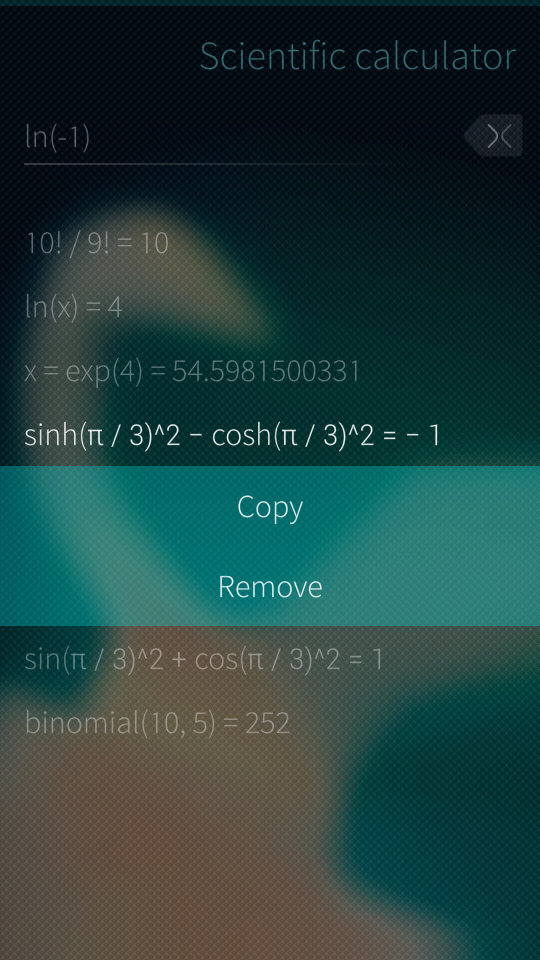
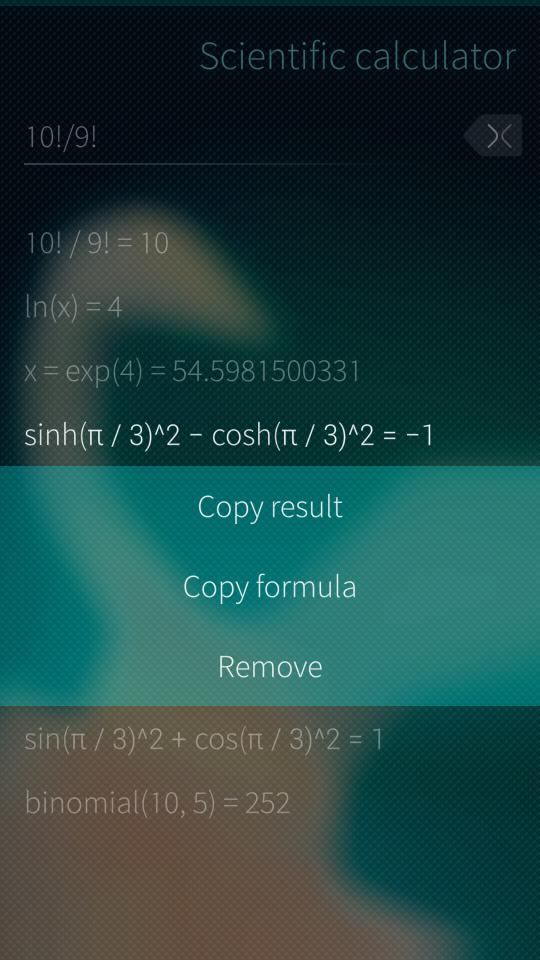
copy formula or result to clipboard

diff --git a/qml/pages/MainPage.qml b/qml/pages/MainPage.qml
@@ -90,7 +90,10 @@ Page {
           placeholderText: qsTr("Mathematical expression")
           inputMethodHints: Qt.ImhNoAutoUppercase | Qt.ImhNoPredictiveText
           EnterKey.enabled: text.length>0
-          EnterKey.onClicked: listModel.insert(0, { res: calculator.calculate(formula.text) } )
+          EnterKey.onClicked: {
+            var t=calculator.calculate(formula.text)
+            listModel.insert(0, { formula: t[0], result: t[1] } )
+          }
         }
         IconButton {
           id: clearButton
@@ -111,10 +114,10 @@ Page {
     delegate: ListItem {
       width: parent.width
       contentWidth: parent.width
-      contentHeight: result.height+Theme.paddingLarge
+      contentHeight: result_text.height+Theme.paddingLarge
       menu: contextMenu
       Text {
-        id: result
+        id: result_text
         x: Theme.horizontalPageMargin
         y: 0.5*Theme.paddingLarge
         width: parent.width-2*Theme.horizontalPageMargin
@@ -122,14 +125,18 @@ Page {
         wrapMode: TextEdit.Wrap
         font.pixelSize: Theme.fontSizeMedium
         horizontalAlignment: TextEdit.AlignLeft
-        text: res
+        text: formula+" = "+result
       }
       Component {
         id: contextMenu
         ContextMenu {
           MenuItem {
-            text: qsTr("Copy")
-            onClicked: Clipboard.text=listModel.get(model.index).res
+            text: qsTr("Copy result")
+            onClicked: Clipboard.text=listModel.get(model.index).result
+          }
+          MenuItem {
+            text: qsTr("Copy formula")
+            onClicked: Clipboard.text=listModel.get(model.index).formula
           }
           MenuItem {
             text: qsTr("Remove")

diff --git a/qml/components/FunctionDoc.qml b/qml/components/FunctionDoc.qml
@@ -1,32 +1,32 @@
-import QtQuick 2.0
+import QtQuick 2.2
 import Sailfish.Silica 1.0
 
 Item {
-    property string functionText: ""
-    property string descriptionText: ""
+  property string functionText: ""
+  property string descriptionText: ""
 
-    width: parent.width
-    height: label.height+description.height-Theme.paddingLarge
+  width: parent.width
+  height: label.height+description.height-Theme.paddingLarge
 
-    Label {
-        id: label
-        x: Theme.horizontalPageMargin
-        width: parent.width-Theme.horizontalPageMargin
-        text: functionText
-        color: Theme.secondaryHighlightColor
-        font.pixelSize: Theme.fontSizeMedium
-    }
-    TextArea {
-        id: description
-        anchors.top: label.bottom
-        anchors.right: label.right
-        width: parent.width-Theme.paddingLarge
-        color: Theme.primaryColor
-        readOnly: true
-        wrapMode: TextEdit.Wrap
-        font.pixelSize: Theme.fontSizeMedium
-        horizontalAlignment: TextEdit.AlignJustify
-        text: descriptionText
-    }
+  Label {
+    id: label
+    x: Theme.horizontalPageMargin
+    width: parent.width-Theme.horizontalPageMargin
+    text: functionText
+    color: Theme.secondaryHighlightColor
+    font.pixelSize: Theme.fontSizeMedium
+  }
+  TextArea {
+    id: description
+    anchors.top: label.bottom
+    anchors.right: label.right
+    width: parent.width-Theme.paddingLarge
+    color: Theme.primaryColor
+    readOnly: true
+    wrapMode: TextEdit.Wrap
+    font.pixelSize: Theme.fontSizeMedium
+    horizontalAlignment: TextEdit.AlignJustify
+    text: descriptionText
+  }
 }
 

diff --git a/translations/harbour-babbage.de.ts b/translations/harbour-babbage.de.ts
@@ -166,10 +166,6 @@
         <translation>Lösche Variablen</translation>
     </message>
     <message>
-        <source>Copy</source>
-        <translation>Kopiere</translation>
-    </message>
-    <message>
         <source>Scientific calculator</source>
         <translation>Wissenschaftlicher Rechner</translation>
     </message>
@@ -192,6 +188,14 @@
     <message>
         <source>Clearing variables</source>
         <translation>Lösche Variablen</translation>
+    </message>
+    <message>
+        <source>Copy result</source>
+        <translation>Kopiere Ergebnis</translation>
+    </message>
+    <message>
+        <source>Copy formula</source>
+        <translation>Kopiere Ausdruck</translation>
     </message>
 </context>
 </TS>

diff --git a/translations/harbour-babbage.en.ts b/translations/harbour-babbage.en.ts
@@ -166,10 +166,6 @@
         <translation>Clear variables</translation>
     </message>
     <message>
-        <source>Copy</source>
-        <translation>Copy</translation>
-    </message>
-    <message>
         <source>Scientific calculator</source>
         <translation>Scientific calculator</translation>
     </message>
@@ -192,6 +188,14 @@
     <message>
         <source>Clearing variables</source>
         <translation>Clearing variables</translation>
+    </message>
+    <message>
+        <source>Copy result</source>
+        <translation>Copy result</translation>
+    </message>
+    <message>
+        <source>Copy formula</source>
+        <translation>Copy formula</translation>
     </message>
 </context>
 </TS>

diff --git a/translations/harbour-babbage.ts b/translations/harbour-babbage.ts
@@ -166,10 +166,6 @@
         <translation>Clear variables</translation>
     </message>
     <message>
-        <source>Copy</source>
-        <translation>Copy</translation>
-    </message>
-    <message>
         <source>Scientific calculator</source>
         <translation>Scientific calculator</translation>
     </message>
@@ -192,6 +188,14 @@
     <message>
         <source>Clearing variables</source>
         <translation>Clearing variables</translation>
+    </message>
+    <message>
+        <source>Copy result</source>
+        <translation>Copy result</translation>
+    </message>
+    <message>
+        <source>Copy formula</source>
+        <translation>Copy formula</translation>
     </message>
 </context>
 </TS>

diff --git a/qml/cover/CoverPage.qml b/qml/cover/CoverPage.qml
@@ -55,7 +55,7 @@ CoverBackground {
     }
 
     Label {
-      text: listModel.count>0 ? listModel.get(0).res : ""
+      text: listModel.count>0 ? listModel.get(0).formula+" = "+listModel.get(0).result : ""
       font.pixelSize : Theme.fontSizeSmall
       color: Theme.secondaryColor
       width: parent.width

diff --git a/src/calculator.cpp b/src/calculator.cpp
@@ -3,12 +3,13 @@
 #include <limits>
 #include <cmath>
 #include <QtDebug>
+#include <QStringList>
 
 calculator::calculator(QObject *parent) : QObject(parent) {
   V.insert("pi", std::atan(1.)*4);
 }
 
-QString calculator::calculate(QString formula) {
+QStringList calculator::calculate(QString formula) {
   QString formula_plain=formula;
   formula_plain.replace("−", "-").
       replace("·", "*").
@@ -37,8 +38,7 @@ QString calculator::calculate(QString formula) {
       replace(QRegularExpression(R"(e[-](\d+))"), R"( · 10^(−\1))").
       replace("-","−").
       replace("inf", "∞");
-  QString formula_tt=formula+" = "+res_str;
-  formula_tt.replace(" ", "").
+  formula.replace(" ", "").
       replace("+"," + ").
       replace("−"," − ").
       replace("-"," − ").
@@ -52,10 +52,13 @@ QString calculator::calculate(QString formula) {
       replace(QRegularExpression(R"(\bGamma\b)"), "Γ").
       replace("  ", " ").
       replace(QRegularExpression(R"(^\s*)"), "");
+  QStringList res_list;
+  res_list.append(formula);
   if (err.isEmpty())
-    return formula_tt;
+    res_list.append(res_str);
   else
-    return formula_tt+" ("+err+")";
+    res_list.append(res_str+" ("+err+")");
+  return res_list;
 }
 
 

diff --git a/src/calculator.hpp b/src/calculator.hpp
@@ -4,6 +4,7 @@
 
 #include <QObject>
 #include <QString>
+#include <QStringList>
 #include "math_parser.hpp"
 
 class calculator : public QObject {
@@ -12,7 +13,7 @@ class calculator : public QObject {
   math_parser::arithmetic_parser::var_map_t V;
 public:
   explicit calculator(QObject *parent = 0);
-  Q_INVOKABLE QString calculate(QString formula);
+  Q_INVOKABLE QStringList calculate(QString formula);
   Q_INVOKABLE void clear();
   virtual ~calculator() { }
 
